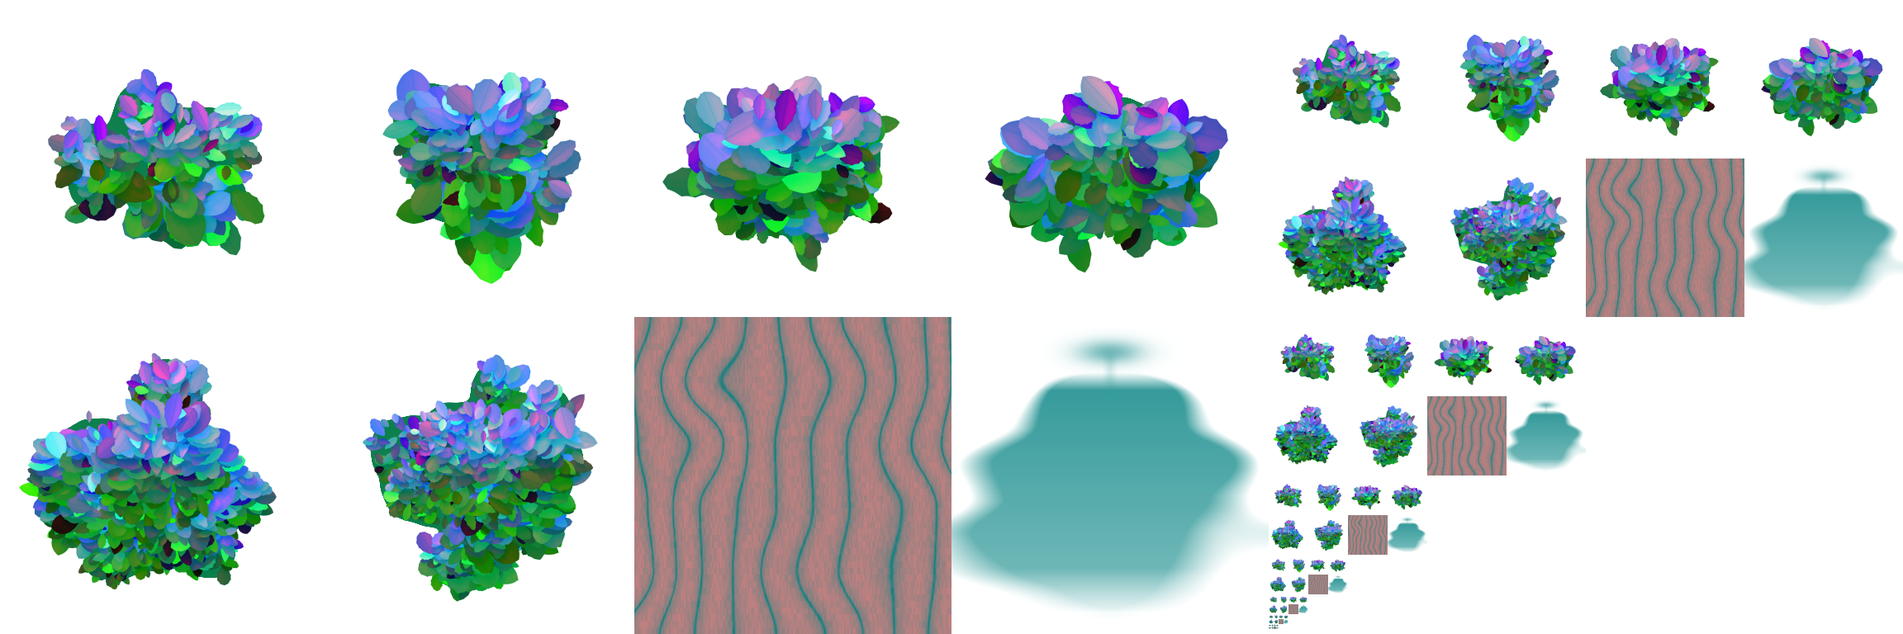
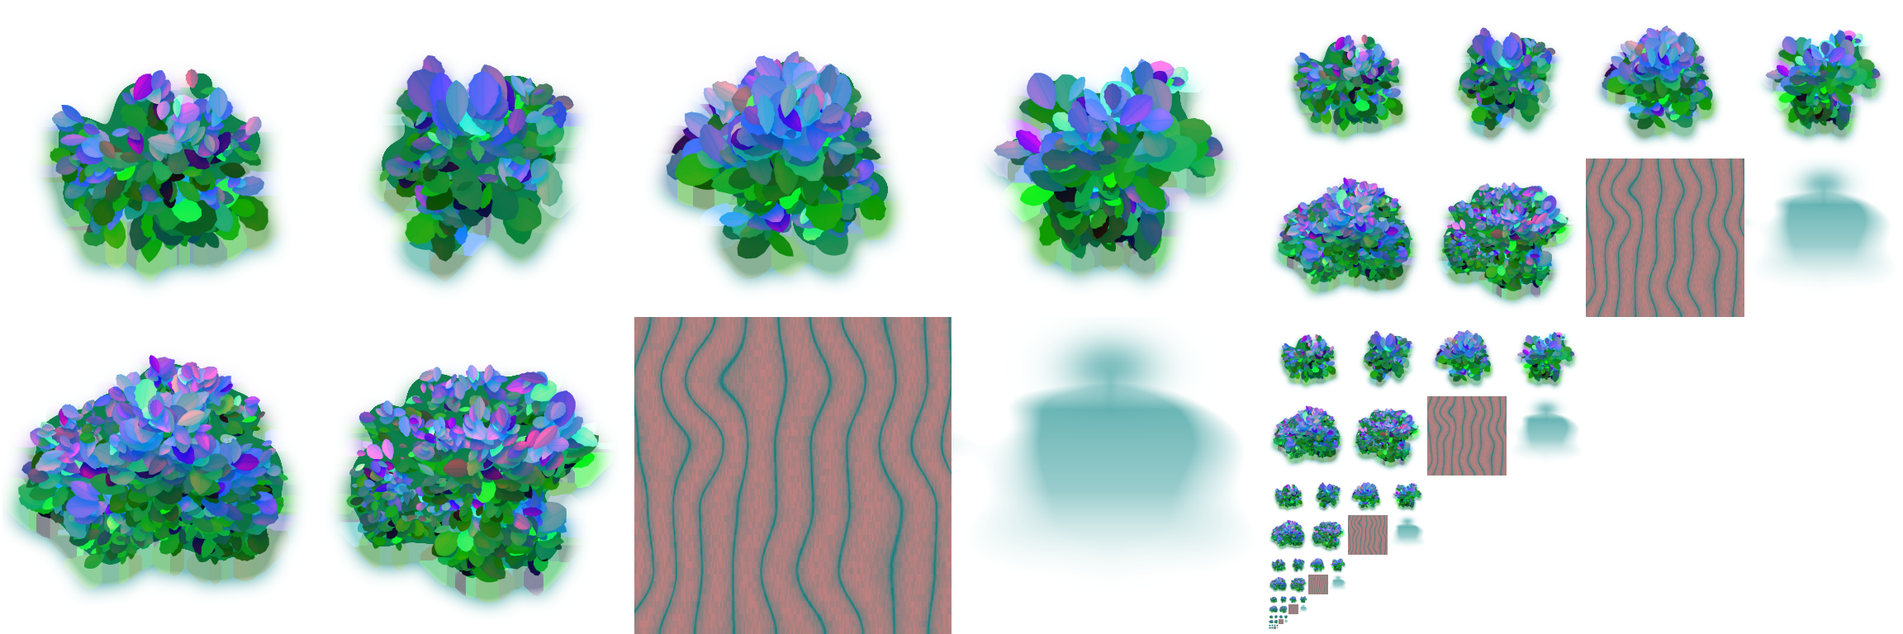
The trees' tenth round: an autumn wood, each tree its own hue, with lit tops

diff --git a/src/pieces/world/parts/trees/material.ts b/src/pieces/world/parts/trees/material.ts
@@ -35,13 +35,22 @@ export const AIR = { reach: 0.01, rate: [0.55, 1.37, 0.83] } as const;
 // How far each lump of a tree is moved from where its model has it, in a crown's own units, so that no two trees
 // of one model have the same outline.
 export const JITTER = 0.09;
+// How far each lump's card is turned on the screen, at most either way, in radians: the cards stand nearly upright,
+// so the light on the top of each mound of leaves in the atlas and the shade each lump lays below itself (HALO in
+// leaves.mjs) fall the way the light does.
+const TURN = 0.32;
+// The shade a lump lays on the leaves of its own crown behind it (stored with the atlas's coverage): how dark at
+// most, and from and to what share of the crown's radius seen from the viewer it fades, so it lies inside the crown
+// and never as a dark line round its outline. On a tree on the sand it is mostly the pale dune that shows between
+// its lumps, and the shade there read as a dark hedge: it keeps this much less of it (aReach.w).
+const HALO = { power: 0.72, gate: [0.66, 0.9], sand: 0.85 } as const;
 // The bark's color, as a mix of the palette's darkest bronze and its bronze (a warm dark brown near the crown's
 // shade, which a grey turned to tar beside it), how bright, how far its ridges and
 // cracks differ in lightness, how much of its light the foot of the trunk keeps, in the crown's shade, and how deep
 // its ridges stand in relief (a height of the atlas's lightness, in a crown's units), and how wide a ridge has to
 // be drawn (in pixels) before its light and its relief begin to show and are whole: under that a trunk drawn a
 // pixel or two wide broke into a dashed stub. And how rough each thing is.
-const BARK = { color: 'bronze-deep', grey: 'bronze', mix: 0.3, power: 0.95, ridge: [0.55, 1.3], foot: 0.6, relief: 0.06, shown: [1.5, 3.5], ridges: 8.5 } as const;
+const BARK = { color: 'bronze-deep', grey: 'bronze', mix: 0.3, power: 0.95, ridge: [0.72, 1.15], foot: 0.6, relief: 0.06, shown: [1.5, 3.5], ridges: 8.5 } as const;
 const ROUGH = { leaf: 0.72, bark: 0.95 };
 // Light through the leaves at a crown's outline from the lit city behind it, as a share of the palette's hot light,
 // and how tight to the outline it keeps.
@@ -52,7 +61,7 @@ const COVER = { soft: 0.18, night: 0.4, bark: 0.15 };
 // Leaves and bark are matte: how much of the standard sheen they keep, head on and at a grazing angle.
 const SHEEN = { face: 0.12, graze: 0.03 };
 // How much a leaf turned toward the light catches more of it than one turned away.
-const FACE = 0.35;
+const FACE = 0.5;
 // How much of the normal a leaf is lit by is its lump's ball, its mass's and its crown's. The crown is lit as one
 // thing, its three to five masses break that light up, and a lump only a little: lit lump by lump, every lump wore a
 // lit edge of its own and a crown read as cauliflower.
@@ -77,22 +86,32 @@ const MASS = { foot: 0.22, up: 0.5, edge: [-0.55, 0.65] } as const;
 const OPEN = { least: 0.25, from: 0.15, full: 0.6 } as const;
 // How the atlas's lightness (red) becomes how light a leaf is: what the darkest (the dark mat between sprigs) and
 // the lightest keep of the tree's own shade.
-const PAINT = [0.38, 1.28] as const;
+const PAINT = [0.24, 1.32] as const;
 // What the moon and the sky turn a leaf they light toward, and how far at most: a tan, never the leaf's own shade
 // made brighter. From how much of the moon a leaf takes it starts and is whole, and how far the night and the fill on
 // such a leaf are turned to the same hue (ambient), so a lit top reads tan and not salmon.
-const PALE = { color: 'copper-light', toward: 'pale', mix: 0.22, power: 0.7, most: 0.85, from: 0.05, full: 0.6, top: 0.65, back: 1.0, ambient: 0.75 } as const;
+const PALE = { color: 'copper', toward: 'hot', mix: 0.55, power: 0.7, most: 0.85, from: 0.05, full: 0.6, top: 0.65, back: 1.0, ambient: 0.75 } as const;
 // The night's soft light on the leaves, against what it gives everything else on top of the world, and how much of
 // it reaches a leaf with no sky above it, against one under open sky.
 // It falls on a crown as on one ball: what of the crown faces away from it (its foot and underside) keeps `crown`
 // of it, so each crown reads round at the page's size, lit above and dark beneath, and not as an even mat of leaves.
-const NIGHT = { leaf: 1.2, bark: 0.7, covered: 0.45, crown: 0.12, turn: [-0.35, 0.75] } as const;
+const NIGHT = { leaf: 2.0, bark: 0.7, covered: 0.45, crown: 0.12, turn: [-0.35, 0.75] } as const;
+// The night's soft light from the viewer's side and above, as it falls on each mass and lump of a crown: what makes
+// every crown in the belt a lit head of leaves seen from the front, as picture 9's are, while the moon behind only
+// rims them. Its color (a share of the palette's hot toward its pale), how bright, how far up from the viewer it
+// comes from, how much of it each lump's own ball turns against its mass's (so each lump has a lit face and a dark
+// foot), how far it wraps, how sharply it falls off, and what of it the most shut in leaf keeps. A tree on the pale
+// sand takes this much more of it, and this much again on what of it faces down, from the sand round it (aReach.w):
+// the light the moon throws up off the pale dunes. A lump drawn small keeps only `far` of its own ball's share, whole
+// once its card is drawn `near` pixels across: at the page's size every lump lit on its own made a crown read as
+// popcorn, where picture 9's read as one head with a lit top; close up the lumps stand out.
+const FRONT = { color: 'hot', toward: 'pale', mix: 0.3, power: 1.7, up: 0.9, lump: 0.65, wrap: 0.35, tight: 1.6, shut: 0.35, sand: 0.8, below: 3.5, far: 0.25, near: [10, 36] } as const;
 // The light inside a crown has come through leaves, and takes their color: how much of the leaf's own color it
 // takes again, so a crown's shade is a deep red brown and not the leaf's shade made darker.
 const DEEP = 0.35;
 // The light of the sky over a crown, from above and about the moon: what makes a crown's top paler than its sides.
 // Its color as the palette's pale, how bright, and how tightly it keeps to what faces straight up.
-const TOP = { color: 'copper-light', toward: 'pale', mix: 0.15, power: 2.2, tight: 1.6, covered: 0.4, lump: 0.55 } as const;
+const TOP = { color: 'copper', toward: 'hot', mix: 0.6, power: 3.0, tight: 1.6, covered: 0.4, lump: 0.55 } as const;
 // The light that has come through the leaves and lights the crown from inside, most where the crown is open and on
 // its side toward the moon: what keeps a crown's shade a rich red brown and not black, and still leaves the side
 // away from the moon darker. Its color, how bright, how much of it reaches the most shut in place and the side
@@ -124,7 +143,7 @@ const LIMB = { from: 0.62, dark: 0.5, moon: [-0.1, 0.55] } as const;
 // rest is its tree's own, so neighbours still differ. And the darkest are lifted by `lift` (a luminance added under
 // `under`), so the shade inside a crown is a deep rust and never a black hole. The lit tops are held down by up to `dim`,
 // from and to the luminances `high`: lit as the moon would light them they read paler than the picture's.
-const GRADE = { at: [0.004, 0.03, 0.12, 0.35], hue: [[1, 0.12, 0.02], [1, 0.25, 0.065], [1, 0.38, 0.145], [1, 0.52, 0.27]], most: 0.6, lift: 0.006, under: 0.03, dim: 0.32, high: [0.1, 0.45] } as const;
+const GRADE = { at: [0.004, 0.03, 0.12, 0.35], hue: [[1, 0.12, 0.02], [1, 0.25, 0.06], [1, 0.35, 0.11], [1, 0.43, 0.16]], most: 0.45, lift: 0.006, under: 0.03, dim: 0.32, high: [0.1, 0.45] } as const;
 // The shade on the ground is drawn this much nearer the viewer along the line of sight, in units, so the land's
 // own small rises do not cut it into strips. At the world's low view that lifts it off the ground by a tenth of it.
 const NEARER = 6;
@@ -136,9 +155,9 @@ const GROUNDED = 1.2;
 const KEEP = 0.35;
 // On sand the moon's own shadow of a tree lies on the dune from the shadow map, and the dark earth the shade stands
 // for is not there: this share of the shade goes where there is sand under it (aReach.w, the most anywhere on it),
-// all but the pool at the trunk's foot, from this far from the trunk to this (in crown units), so the shade never
-// lies on a dune as a dark wedge.
-const SAND = { most: 0.9, from: 0.4, full: 1.4 } as const;
+// growing from the trunk out to this far (in crown units), so the shade never lies on a dune as a dark wedge, and the
+// pool at the trunk's foot is faint there too (a dark line under the row behind the dunes read as a hedge's foot).
+const SAND = { most: 0.8, from: 0.0, full: 0.9 } as const;
 // Where a leaf is drawn in depth: drawn where its flat card lies, two cards crossing met in a ruler straight line, and
 // two lumps or two trees met as flat cards do. Each leaf is drawn this share of the way from its card to the front of
 // its lump's ball, so lumps meet one another as balls do, and stands nearer by as much as it is lighter in the atlas
@@ -149,6 +168,10 @@ const DEPTH = { pull: 0.65, relief: 0.4, mid: 0.5, face: 0.06 } as const;
 // darker or lighter as the tree's own shade is against the belt's middle shade (`mid`, a palette color), to this
 // power, and leans this far toward the tree's own hue, so a deep brown crown's lit top is a dark tan and a cream
 // crown's a pale cream, and the belt reads as a row of different trees and not one rust.
+// Each tree's own autumn, over the hue the grade gives it: some more ochre, some more orange, some a deep red, and
+// the rest as the grade leaves them, each a multiplier of red, green and blue in linear light, and the share of the
+// trees that wear it, in order. The darks keep the grade's rust (`from` to `full`, a luminance).
+const AUTUMNS = { tints: [[1, 1.05, 0.9], [1.04, 0.94, 0.6], [0.95, 0.68, 0.72]], shares: [0.28, 0.28, 0.22], from: 0.004, full: 0.04, green: 0.5, blue: 0.62 } as const;
 const TONED = { mid: 'bronze', keep: 0.9, hue: 0.5, range: [0.25, 1.8] } as const;
 // ?treelook=moon, night or top shows one light alone, shade the shade on the ground lit, mask every leaf and
 // trunk in one flat red, so a script can tell the trees' pixels from the rest of a still, and tone each tree's own
@@ -156,6 +179,16 @@ const TONED = { mid: 'bronze', keep: 0.9, hue: 0.5, range: [0.25, 1.8] } as cons
 const LOOKS: Record<string, number> = { moon: 1, night: 2, top: 3, shade: 4, mask: 5, lump: 6, heart: 7, tone: 8 };
 
 const f = (v: number): string => v.toFixed(5);
+// Where a leaf is written in depth (DEPTH), which the passes share with the shade a lump lays (HALO).
+const DEPTH_AT = `{
+	vec3 q = tP;
+	if ( vCrown.w > 1e-5 && tLeafy > 0.5 ) q = mix( tP, tS, ${f(DEPTH.pull)} ) + normalize( vViewPosition ) * vClump.w * ( ${f(DEPTH.relief)} * ( tLeaf.r - ${f(DEPTH.mid)} ) + ${f(DEPTH.face)} * vView );
+	vec4 clip = projectionMatrix * vec4( q, 1.0 );
+	gl_FragDepth = tLeafy > 0.5 ? 0.5 + 0.5 * clip.z / clip.w : gl_FragCoord.z;
+}`;
+// The shade a lump lays on its crown behind it, how dark, where it is drawn alone: drawn there with nothing of the
+// lights, which every such pixel of a card would otherwise have paid for.
+const HALO_A = `${f(HALO.power)} * ( 1.0 - ${f(HALO.sand)} * vReach.w ) * tHalo * ( 1.0 - smoothstep( ${f(HALO.gate[0])}, ${f(HALO.gate[1])}, tOut ) )`;
 const v = (c: readonly number[]): string => `vec3( ${c.map(f).join(', ')} )`;
 const tile = (uv: string): string => `( floor( ${uv}.x * ${f(ATLAS.cols)} ) + ${f(ATLAS.cols)} * floor( ${uv}.y * ${f(ATLAS.rows)} ) )`;
 
@@ -188,7 +221,7 @@ if ( abs( ${tile('uv')} - ${f(TILES.blob)} ) < 0.5 ) {
 			float ha = fract( sin( aTree.x * 47.13 + sway.y * 91.7 + 0.11 ) * 43758.5453 ), hb = fract( sin( aTree.x * 13.71 + sway.y * 27.3 + 0.53 ) * 24634.6345 );
 			vec3 rel = transformed - clump.xyz;
 			rel.x *= fract( hb * 7.0 ) < 0.5 ? - 1.0 : 1.0;
-			float ca = cos( 6.2831853 * ha ), sa = sin( 6.2831853 * ha );
+			float ca = cos( ${f(2 * TURN)} * ( ha - 0.5 ) ), sa = sin( ${f(2 * TURN)} * ( ha - 0.5 ) );
 			rel.xy = vec2( ca * rel.x - sa * rel.y, sa * rel.x + ca * rel.y );
 			vec3 ax = instanceMatrix[ 0 ].xyz / max( length( instanceMatrix[ 0 ].xyz ), 1e-6 );
 			transformed = clump.xyz + vec3( ax.x * rel.x + ax.z * rel.z, rel.y, - ax.z * rel.x + ax.x * rel.z );
@@ -225,11 +258,11 @@ export function treeMaterial(map: THREE.Texture, pass: 0 | 1, uniforms: TreeUnif
   // passes of their own, which drew every leaf twice and made a third program, unless it is told not to.
   const m = new THREE.MeshStandardMaterial({ color: 0xffffff, roughness: ROUGH.leaf, metalness: 0, side: THREE.DoubleSide, transparent: true, depthWrite: pass === 0, forceSinglePass: true });
   const bark = new THREE.Color(hex(BARK.color)).lerp(new THREE.Color(hex(BARK.grey)), BARK.mix).multiplyScalar(BARK.power), rim = new THREE.Color(hex(RIM.color)).multiplyScalar(RIM.power);
-  const top = new THREE.Color(hex(TOP.color)).lerp(new THREE.Color(hex(TOP.toward)), TOP.mix).multiplyScalar(TOP.power), fill = new THREE.Color(hex(FILL.color)).lerp(new THREE.Color(hex(FILL.grey)), FILL.mix).multiplyScalar(FILL.power);
+  const front = new THREE.Color(hex(FRONT.color)).lerp(new THREE.Color(hex(FRONT.toward)), FRONT.mix).multiplyScalar(FRONT.power), top = new THREE.Color(hex(TOP.color)).lerp(new THREE.Color(hex(TOP.toward)), TOP.mix).multiplyScalar(TOP.power), fill = new THREE.Color(hex(FILL.color)).lerp(new THREE.Color(hex(FILL.grey)), FILL.mix).multiplyScalar(FILL.power);
   const pale = new THREE.Color(hex(PALE.color)).lerp(new THREE.Color(hex(PALE.toward)), PALE.mix).multiplyScalar(PALE.power);
   const mc = new THREE.Color(hex(TONED.mid)), mid = 0.2126 * mc.r + 0.7152 * mc.g + 0.0722 * mc.b;
   m.onBeforeCompile = (sh) => {
-    Object.assign(sh.uniforms, uniforms, { uLeaves: { value: map }, uPass: { value: pass }, uBark: { value: bark }, uRim: { value: rim }, uPale: { value: pale }, uMid: { value: mid }, uTop: { value: top }, uFill: { value: fill }, uNearer: { value: NEARER * SCALE }, uLook: { value: LOOKS[look ?? ''] ?? 0 } });
+    Object.assign(sh.uniforms, uniforms, { uLeaves: { value: map }, uPass: { value: pass }, uBark: { value: bark }, uRim: { value: rim }, uPale: { value: pale }, uMid: { value: mid }, uTop: { value: top }, uFront: { value: front }, uFill: { value: fill }, uNearer: { value: NEARER * SCALE }, uLook: { value: LOOKS[look ?? ''] ?? 0 } });
     sh.vertexShader = sh.vertexShader
       .replace('#include <common>', `#include <common>${MOVE_PARS}
 attribute vec3 aTone;
@@ -282,6 +315,7 @@ uniform vec3 uRim;
 uniform vec3 uPale;
 uniform float uMid;
 uniform vec3 uTop;
+uniform vec3 uFront;
 uniform vec3 uFill;
 varying vec2 vLeafUv;
 varying vec2 vShadeAt;
@@ -307,6 +341,7 @@ vec3 tUpV = vec3( 0.0, 1.0, 0.0 );
 vec3 tS;
 float tEdge = 0.0;
 float tHeart = 1.0;
+float tNear = 1.0;
 // How lit a lump is about its own ball by a light from L: its foot keeps LUMP.foot, its top is whole.
 float tLump( vec3 L ) {
 	return mix( ${f(LUMP.foot)}, 1.0, smoothstep( ${f(LUMP.edge[0])}, ${f(LUMP.edge[1])}, dot( tNL, normalize( L + ${f(LUMP.up)} * tUpV ) ) ) )
@@ -365,7 +400,11 @@ vec4 tLeaf = texture2D( uLeaves, vLeafUv );
 float tTile = ${tile('vLeafUv')};
 float tBlob = 1.0 - step( 0.5, abs( tTile - ${f(TILES.blob)} ) ), tBark = 1.0 - step( 0.5, abs( tTile - ${f(TILES.bark)} ) );
 tLeafy = 1.0 - max( tBark, tBlob );
-float tA = tLeaf.a;
+float tA = tLeaf.a, tHalo = 0.0;
+if ( tLeafy > 0.5 ) {
+	tHalo = clamp( 2.0 * tA, 0.0, 1.0 ) * vView;
+	tA = clamp( 2.0 * tA - 1.0, 0.0, 1.0 );
+}
 if ( tLeafy > 0.5 && vView < 0.5 ) {
 	vec3 fn = cross( dFdx( vViewPosition ), dFdy( vViewPosition ) );
 	float fl = length( fn ), vl = length( vViewPosition );
@@ -373,6 +412,7 @@ if ( tLeafy > 0.5 && vView < 0.5 ) {
 	tA *= smoothstep( ${f(GLANCE[0])}, ${f(GLANCE[1])}, g );
 }
 float tW = max( fwidth( tA ), 1e-3 );
+tNear = smoothstep( ${f(FRONT.near[0])}, ${f(FRONT.near[1])}, ${f(1 / ATLAS.cols)} / max( max( length( dFdx( vLeafUv ) ), length( dFdy( vLeafUv ) ) ), 1e-6 ) );
 float tRidge = smoothstep( ${f(BARK.shown[0])}, ${f(BARK.shown[1])}, ${f((1.9 * 0.5) / ATLAS.cols / BARK.ridges)} / max( fwidth( vLeafUv.x ), 1e-6 ) );
 tPaleOf = uPale;
 tCover = smoothstep( vTree.z - ${f(COVER.soft)}, vTree.z + ${f(COVER.soft)}, 1.0 - vLow );
@@ -387,7 +427,7 @@ if ( tBlob > 0.5 ) {
 		diffuseColor.a = 1.0;
 	} else {
 		float e = clamp( ( tA - 0.5 ) / tW + 0.5, 0.0, 1.0 );
-		if ( tA >= 0.5 || e < 0.004 ) discard;
+		if ( tA >= 0.5 || ( e < 0.004 && tHalo < 0.004 ) ) discard;
 		diffuseColor.a = e;
 	}
 	float h = tLeaf.g - 0.5 + ${f(CLUMPS.hue)} * ( fract( vPhase * 7.31 + vTree.x * 3.7 ) - 0.5 );
@@ -410,13 +450,14 @@ roughnessFactor = mix( roughnessFactor, 1.0, tBlob );`)
 material.specularColor *= ${f(SHEEN.face)};
 material.specularColorBlended *= ${f(SHEEN.face)};
 material.specularF90 = ${f(SHEEN.graze)};`)
-      .replace('#include <opaque_fragment>', `${look === 'flat' ? '' : `{
-	vec3 q = tP;
-	if ( vCrown.w > 1e-5 && tLeafy > 0.5 ) q = mix( tP, tS, ${f(DEPTH.pull)} ) + normalize( vViewPosition ) * vClump.w * ( ${f(DEPTH.relief)} * ( tLeaf.r - ${f(DEPTH.mid)} ) + ${f(DEPTH.face)} * vView );
-	vec4 clip = projectionMatrix * vec4( q, 1.0 );
-	gl_FragDepth = tLeafy > 0.5 ? 0.5 + 0.5 * clip.z / clip.w : gl_FragCoord.z;
-}`}
+      .replace('#include <opaque_fragment>', `${look === 'flat' ? '' : DEPTH_AT}
 outgoingLight *= 1.0 - tBlob;
+if ( uPass > 0.5 && tLeafy > 0.5 && tA < 0.5 ) {
+	float hA = ${HALO_A};
+	float a = diffuseColor.a + ( 1.0 - diffuseColor.a ) * hA;
+	outgoingLight *= diffuseColor.a / max( a, 1e-4 );
+	diffuseColor.a = a;
+}
 #if NUM_DIR_LIGHTS > 0
 if ( tLeafy > 0.5 && vCrown.w > 1e-5 ) {
 	vec3 V = normalize( vViewPosition ), L = directionalLights[ 0 ].direction;
@@ -433,6 +474,11 @@ if ( tLeafy > 0.5 && vCrown.w > 1e-5 ) {
 	h = mix( h, ${v(GRADE.hue[3])}, smoothstep( ${f(GRADE.at[2])}, ${f(GRADE.at[3])}, Y ) );
 	float Yl = ( Y + ${f(GRADE.lift)} * tLeafy * ( 1.0 - smoothstep( 0.0, ${f(GRADE.under)}, Y ) ) ) * ( 1.0 - ${f(GRADE.dim)} * tLeafy * smoothstep( ${f(GRADE.high[0])}, ${f(GRADE.high[1])}, Y ) );
 	outgoingLight = mix( outgoingLight * Yl / max( Y, 1e-5 ), h * Yl / max( dot( h, w ), 1e-4 ), ${f(GRADE.most)} * tLeafy );
+	float k = fract( vTree.x * 7.31 + 0.17 );
+	vec3 tint = k < ${f(AUTUMNS.shares[0])} ? ${v(AUTUMNS.tints[0])} : k < ${f(AUTUMNS.shares[0] + AUTUMNS.shares[1])} ? ${v(AUTUMNS.tints[1])} : k < ${f(AUTUMNS.shares[0] + AUTUMNS.shares[1] + AUTUMNS.shares[2])} ? ${v(AUTUMNS.tints[2])} : vec3( 1.0 );
+	outgoingLight *= mix( vec3( 1.0 ), tint, tLeafy * smoothstep( ${f(AUTUMNS.from)}, ${f(AUTUMNS.full)}, Y ) );
+	outgoingLight.g = mix( outgoingLight.g, min( outgoingLight.g, ${f(AUTUMNS.green)} * outgoingLight.r ), tLeafy );
+	outgoingLight.b = mix( outgoingLight.b, min( outgoingLight.b, ${f(AUTUMNS.blue)} * outgoingLight.g ), tLeafy );
 }
 outgoingLight += vec3( 2.0, 0.6, 0.0 ) * tBlob * step( 3.5, uLook ) * step( uLook, 4.5 );
 if ( uLook > 4.5 && uLook < 5.5 ) outgoingLight = vec3( 4.0, 0.0, 0.0 ) * ( 1.0 - tBlob );
@@ -477,6 +523,13 @@ if ( vCrown.w > 1e-5 && tLeafy > 0.5 ) {
 	tNK = normalize( nK + 1e-4 * V );
 	tEdge = tOut;
 	tBelow = mix( ${f(INSIDE.beneath)}, 1.0, smoothstep( - 0.6, 0.55, dot( tNR, tUpV ) ) );
+}
+if ( uPass > 0.5 && tLeafy > 0.5 && tA < 0.5 && diffuseColor.a < 0.004 ) {
+	float hA = ${HALO_A};
+	if ( hA < 0.004 ) discard;
+	${look === 'flat' ? '' : DEPTH_AT}
+	gl_FragColor = vec4( 0.0, 0.0, 0.0, hA );
+	return;
 }`)
       .replace('#include <lights_fragment_end>', `vec3 tTopE = vec3( 0.0 );
 material.diffuseContribution = mix( material.diffuseContribution, tTan( material.diffuseContribution ), ${f(PALE.ambient)} * smoothstep( ${f(PALE.from)}, ${f(PALE.full)}, tSeen ) * tLeafy );
@@ -487,7 +540,7 @@ material.diffuseContribution = mix( material.diffuseContribution, tTan( material
 	vec3 deep = mix( vec3( 1.0 ), diffuseColor.rgb / max( diffuseColor.r, 1e-4 ), ${f(DEEP)} * tLeafy );
 	irradiance *= night * deep;
 	iblIrradiance *= night * deep;
-	float up = saturate( dot( tNR, tUpV ) ) * mix( 1.0, tLump( tUpV ), ${f(TOP.lump)} * tLeafy ) * mix( 1.0, tOpen, tLeafy );
+	float up = saturate( dot( tNR, tUpV ) ) * mix( 1.0, tLump( tUpV ), ${f(TOP.lump)} * tLeafy * mix( ${f(FRONT.far)}, 1.0, tNear ) ) * mix( 1.0, tOpen, tLeafy );
 	if ( uLook > 2.5 && uLook < 3.5 ) { irradiance *= 0.0; iblIrradiance *= 0.0; radiance *= 0.0; reflectedLight.directDiffuse *= 0.0; }
 	tTopE = uTop * ( pow( up, ${f(TOP.tight)} ) * mix( ${f(TOP.covered)}, 1.0, wLight.y ) * tLeafy * tHeart * mix( 0.45, 1.0, tCover ) * wLight.z );
 	radiance *= mix( 1.0, night, tLeafy );
@@ -502,6 +555,13 @@ material.diffuseContribution = mix( material.diffuseContribution, tTan( material
 		tSide = mix( ${f(FILL.away)}, 1.0, 0.5 + 0.5 * dot( normal, directionalLights[ 0 ].direction ) );
 	#endif
 	reflectedLight.indirectDiffuse += uFill * ( tLeafy * tSide * tBelow * mix( ${f(FILL.shut)}, 1.0, wLight.z * tHeart ) * tLump( tUpV ) * step( uLook, 0.5 ) ) * BRDF_Lambert( material.diffuseContribution );
+	if ( tLeafy > 0.5 && uLook < 0.5 ) {
+		vec3 F = normalize( normalize( ( viewMatrix * vec4( ${SKY.front.toward.map(f).join(', ')}, 0.0 ) ).xyz ) + ${f(FRONT.up)} * tUpV );
+		vec3 n = normalize( mix( tNM, tNL, ${f(FRONT.lump)} * mix( ${f(FRONT.far)}, 1.0, tNear ) ) + 1e-4 * F );
+		float lit = pow( saturate( ( dot( n, F ) + ${f(FRONT.wrap)} ) / ${f(1 + FRONT.wrap)} ), ${f(FRONT.tight)} );
+		reflectedLight.indirectDiffuse += uFront * ( ${f(FRONT.below)} * vReach.w * saturate( 0.55 - 0.6 * dot( n, tUpV ) ) ) * BRDF_Lambert( material.diffuseContribution );
+		reflectedLight.indirectDiffuse += uFront * ( ( 1.0 + ${f(FRONT.sand)} * vReach.w ) * lit * mix( ${f(FRONT.shut)}, 1.0, tHeart * mix( 0.5, 1.0, tOpen ) ) ) * BRDF_Lambert( material.diffuseContribution );
+	}
 	reflectedLight.indirectDiffuse += tTopE * BRDF_Lambert( mix( diffuseColor.rgb, tPaleOf, ${f(PALE.top)} * smoothstep( 0.0, 0.6, length( tTopE ) / max( length( uTop ), 1e-4 ) ) ) );
 	vec3 toCity = normalize( ( viewMatrix * vec4( 0.0, 0.2, - 1.0, 0.0 ) ).xyz );
 	float edge = pow( 1.0 - saturate( dot( normal, geometryViewDir ) ), ${f(RIM.tight)} ) * smoothstep( 0.5, 0.95, tOut );
@@ -516,7 +576,7 @@ material.diffuseContribution = mix( material.diffuseContribution, tTan( material
 // The moon's shadow pass for the trees: the leaves cut out of their cards by the same atlas, each lump where the
 // passes draw it, held still, and nothing of the shade under a tree.
 export function treeDepth(map: THREE.Texture, uniforms: TreeUniforms): THREE.MeshDepthMaterial {
-  const m = new THREE.MeshDepthMaterial({ map, alphaTest: 0.5, side: THREE.DoubleSide });
+  const m = new THREE.MeshDepthMaterial({ map, alphaTest: 0.75, side: THREE.DoubleSide });
   m.onBeforeCompile = (sh) => {
     Object.assign(sh.uniforms, uniforms);
     sh.vertexShader = sh.vertexShader.replace('#include <common>', `#include <common>${MOVE_PARS}`).replace('#include <begin_vertex>', `#include <begin_vertex>${MOVE(false, false)}

diff --git a/src/pieces/world/parts/trees.ts b/src/pieces/world/parts/trees.ts
@@ -23,8 +23,8 @@ import { AIR, JITTER, treeDepth, treeMaterial, treeUniforms } from './trees/mate
 // of the trees wear it, in order: a tree's own number (TREES' tone) picks its place along the list, so about one
 // crown in five is deep and one in five pale, and neighbours differ as their numbers do.
 const AUTUMN: readonly { mix: readonly [PaletteName, PaletteName, number]; power: number; share: number }[] = [
-  { mix: ['bronze-deep', 'ember', 0.2], power: 1.4, share: 0.18 },
-  { mix: ['bronze', 'ember', 0.2], power: 1.2, share: 0.17 },
+  { mix: ['bronze-deep', 'ember', 0.2], power: 1.75, share: 0.18 },
+  { mix: ['bronze', 'ember', 0.2], power: 1.4, share: 0.17 },
   { mix: ['bronze', 'copper', 0.35], power: 1.0, share: 0.17 },
   { mix: ['copper', 'bronze', 0.2], power: 0.95, share: 0.16 },
   { mix: ['copper', 'copper-light', 0.4], power: 0.92, share: 0.16 },
@@ -64,6 +64,10 @@ const SHADED = { far: 3, side: 0.7, drop: 0.52, top: 2, most: 0.4 };
 const EDGE = 0.4;
 // A tree is drawn only if at least this share of its crown is seen over the land in front of it.
 const SEEN = 0.65;
+// The pyramid's court in front of it, to the right of its front corner (across from its middle and toward the viewer,
+// in units): picture 9 has bare broken ground there, and the few trees the plan stands on it read as lone puffs on
+// the apron, so they are let go.
+const APRON = { across: [0, 160], toward: 100 } as const;
 // The moon's shade from the buildings and the pyramid: how many places up a crown are looked from toward the moon,
 // how far a building is looked for, the step of the march over the pyramid, and how high a crown stands in its
 // own sizes. A crown is in that shade up to the highest of those places a building hides from the moon, as with
@@ -189,7 +193,8 @@ export const build: PartFactory = async ({ query }) => {
   const seats = new Map(((file.meta.seats ?? []) as number[][]).map(([x, z, y, sand, seen]) => [`${x},${z}`, { y, sand, seen }]));
   const seat = (x: number, z: number) => seats.get(`${x},${z}`) ?? { y: ground(x, z), sand: 0, seen: 1 };
   // Every size below is the model's: half the drawn width (DRAWN).
-  const ground0 = TREES.filter(([x, z, size]) => within(x, z) >= size * DRAWN && seat(x, z).seen >= SEEN).map(([x, z, size, tone, turn]) => [x, z, size * DRAWN, tone, turn] as const);
+  const apron = (x: number, z: number) => x - PYRAMID.x > APRON.across[0] && x - PYRAMID.x < APRON.across[1] && z - PYRAMID.z > APRON.toward;
+  const ground0 = TREES.filter(([x, z, size]) => within(x, z) >= size * DRAWN && seat(x, z).seen >= SEEN && !apron(x, z)).map(([x, z, size, tone, turn]) => [x, z, size * DRAWN, tone, turn] as const);
   // Each tree's own size, height and the rest are its own (a seed of its own numbers), and are worked out before
   // the view is, so what is left out is judged at the size it would be drawn and does not change with the list.
   const rel = ground0.map(([x, z, s]) => {

diff --git a/src/pieces/world/parts/trees/design.ts b/src/pieces/world/parts/trees/design.ts
@@ -47,11 +47,11 @@ export const CARD = { lump: 1.16, core: 1.08, painted: { lump: 0.21, core: 0.36 
 // The crown, in its own units: how far over the ground its lowest leaves are, on the full models and on the cheap
 // one: low, so only a little of each thin trunk shows under the front ranks and no paving shows between the
 // crowns of a rank (raised higher, the belt read as a row of trees on stalks with ground between them).
-export const CROWN = { clear: 0.09, far: 0.07 } as const;
+export const CROWN = { clear: 0.06, far: 0.05 } as const;
 
 // The shade a tree lays on the ground: a card under the tree out along the ground away from the moon, which holds
 // the crown's own outline thrown there (BLOB in scripts/world/parts/trees/leaves.mjs). How far it starts behind the
 // trunk and how far it reaches past it, and how wide it is to each side, in crown units. Each tree's card is cut
-// short where the land ends. The moon stands about 22 degrees up, so a crown's shade lies about two and a half
-// times as far as it is high: a crown up to about 1.75 lays its shade about 4.4 out.
-export const SHADE = { back: 0.6, reach: 4.8, wide: 1.0, up: 0.04 } as const;
+// short where the land ends. The moon at 22 degrees would lay it about 4.4 out, and drawn that long every tree on
+// open paving threw a thin hard streak that read as a skid mark: it is drawn as a ragged pool under half as long.
+export const SHADE = { back: 0.5, reach: 2.6, wide: 1.0, up: 0.04 } as const;
